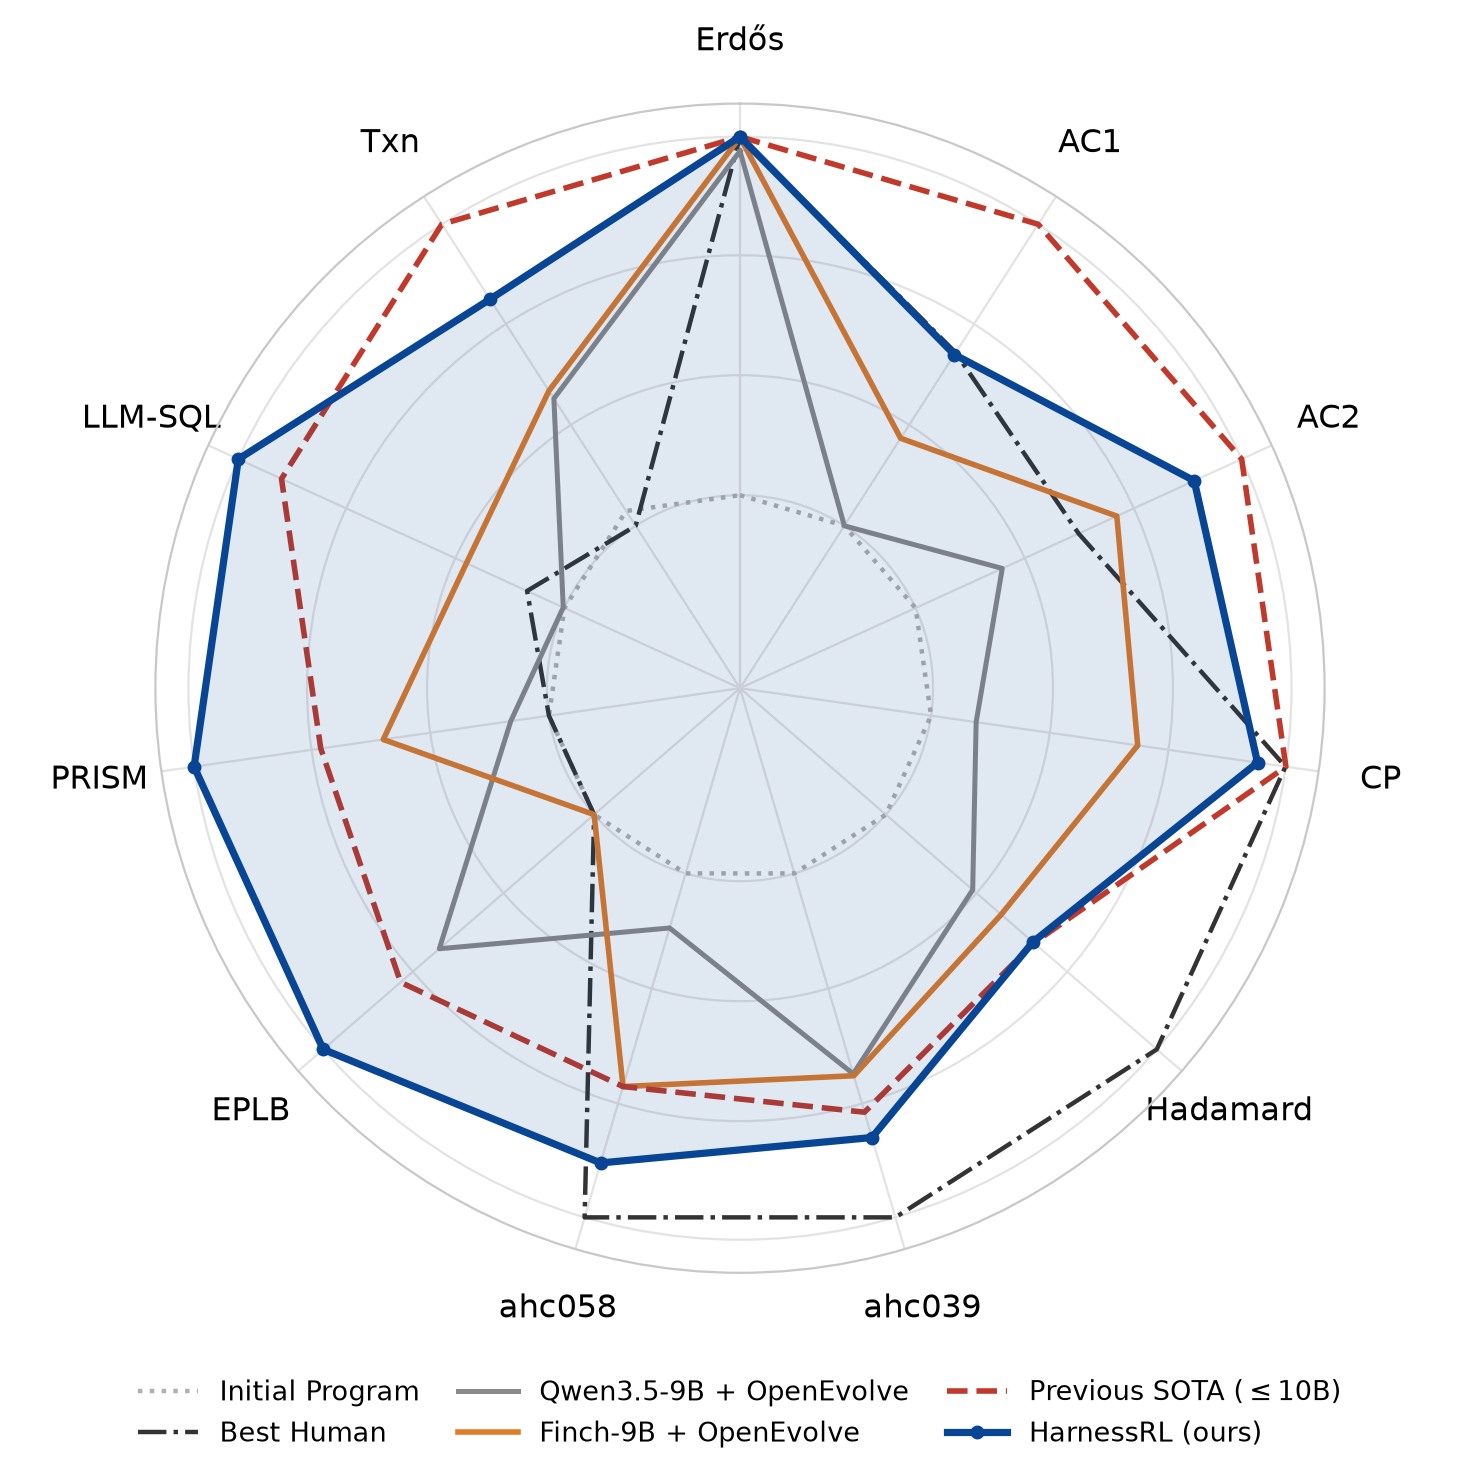
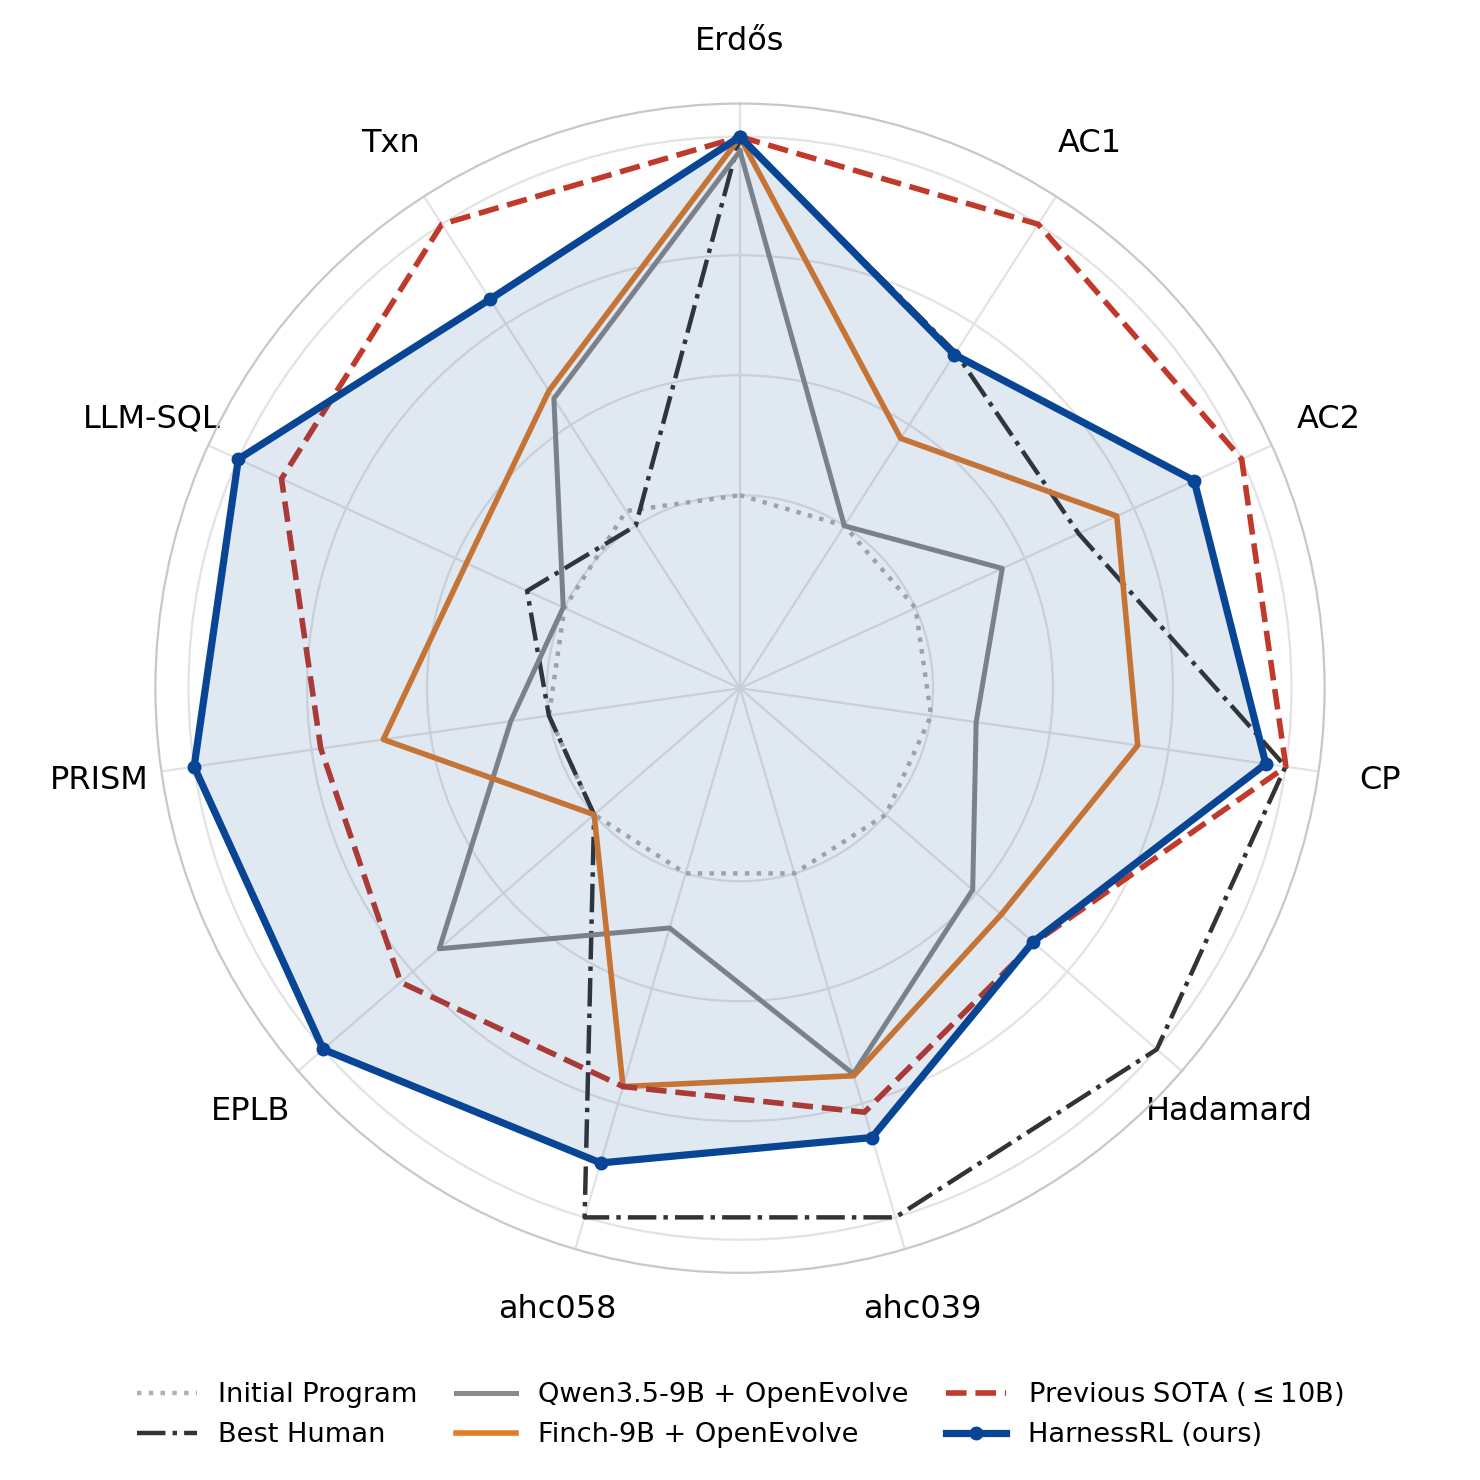
Update HarnessRL CP score to 2.541

diff --git a/harnessrl/index.html b/harnessrl/index.html
@@ -115,7 +115,7 @@
 
         <div class="results-layout">
           <figure class="paper-figure radar-figure reveal">
-            <img src="static/images/radar_method_ablation.png" alt="Radar comparison across eleven discovery tasks" />
+            <img src="static/images/radar_method_ablation.png?v=20260816-cp2541" alt="Radar comparison across eleven discovery tasks" />
             <figcaption><b>Performance across all eleven tasks.</b> Axes are direction-corrected and independently rescaled; outward is better.</figcaption>
           </figure>
           <div class="result-callouts">
@@ -147,7 +147,7 @@
               <tr class="section-row ours-section"><td colspan="12">Ours · frozen Qwen3.5-9B executor</td></tr>
               <tr class="ours-row"><td>HarnessRL <span>initial</span></td><td>0.456591</td><td>1.5182</td><td>0.8961</td><td>1.477767</td><td>0.360961</td><td>557,225</td><td>134,487,000</td><td>0.1265</td><td>24.02</td><td>0.0934</td><td>3610.11</td></tr>
               <tr class="ours-row"><td>HarnessRL <span>context</span></td><td>0.395849</td><td class="best">1.5098</td><td>0.9263</td><td>2.370463</td><td>0.517212</td><td class="best">559,534</td><td>562,824,208</td><td class="best">0.1278</td><td>23.04</td><td>0.7267</td><td>3906.25</td></tr>
-              <tr class="ours-row weight-row"><td>HarnessRL <span>weight</span></td><td class="best">0.380919</td><td class="best">1.5098</td><td class="best">0.9339</td><td class="best">2.502000</td><td class="best">0.573283</td><td class="best">559,534</td><td class="best">713,552,303</td><td>0.1272</td><td class="best">26.26</td><td class="best">0.7415</td><td>4255.32</td></tr>
+              <tr class="ours-row weight-row"><td>HarnessRL <span>weight</span></td><td class="best">0.380919</td><td class="best">1.5098</td><td class="best">0.9339</td><td class="best">2.541000</td><td class="best">0.573283</td><td class="best">559,534</td><td class="best">713,552,303</td><td>0.1272</td><td class="best">26.26</td><td class="best">0.7415</td><td>4255.32</td></tr>
             </tbody>
           </table>
         </div>
